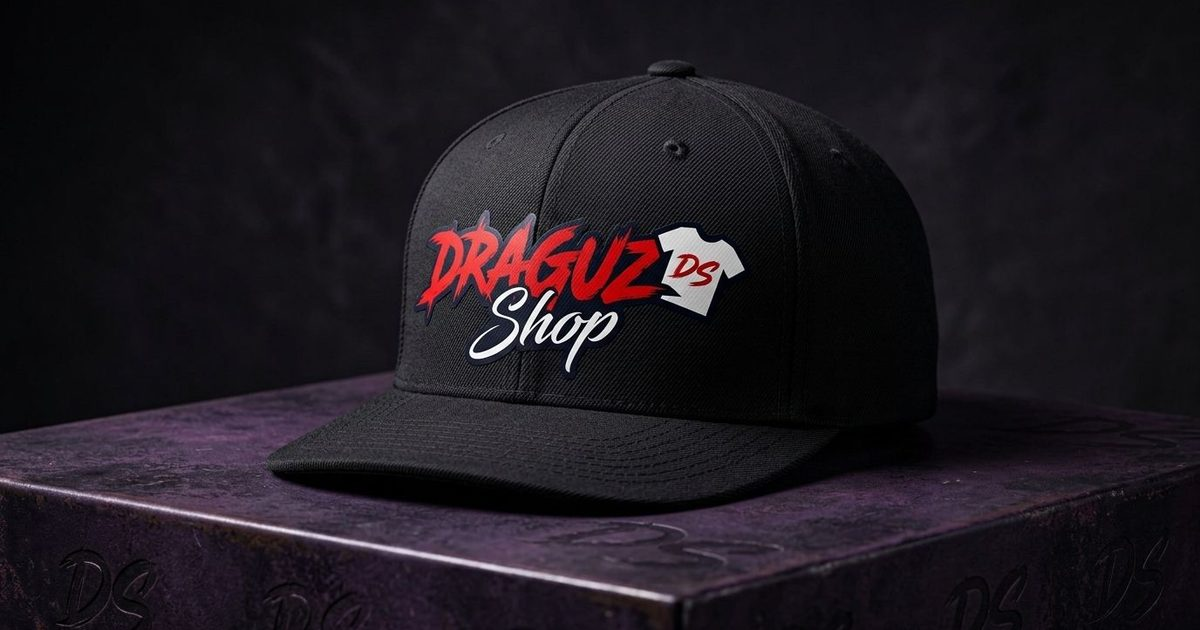
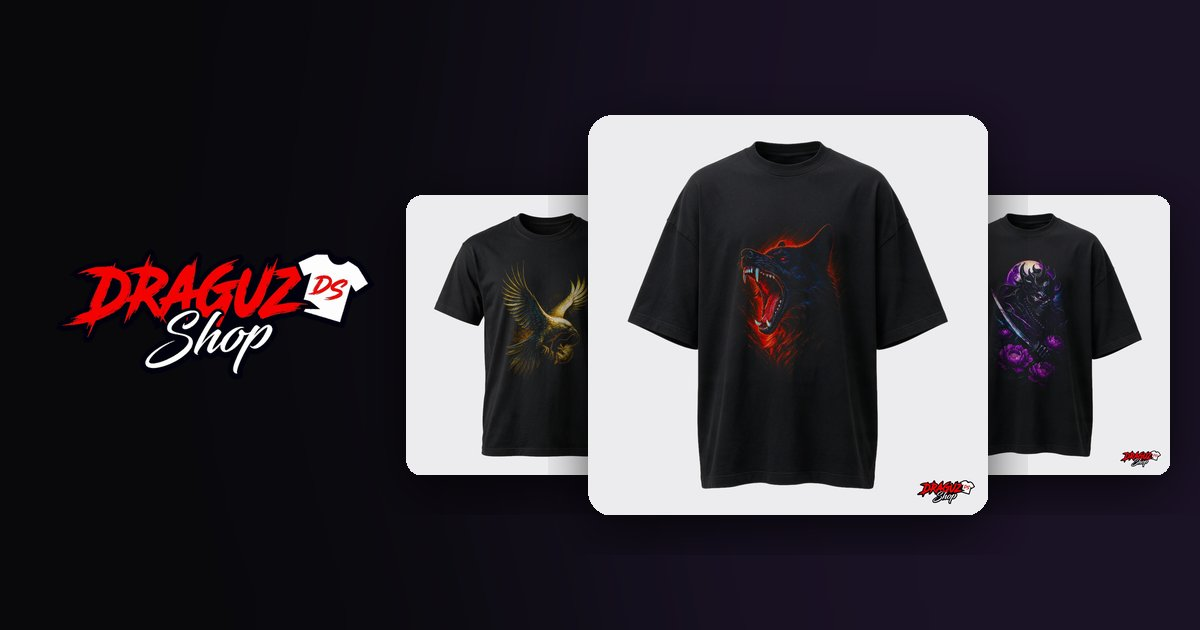
Quitar gorras: portada e imagen para compartir con playeras, textos sin gorras
Claude-Session: https://claude.ai/code/session_01Tki9iKxEtLgMNqL3XWuzQH

diff --git a/index.html b/index.html
@@ -4,7 +4,7 @@
 <meta charset="utf-8">
 <meta name="viewport" content="width=device-width,initial-scale=1">
 <title>Draguz Shop — Define your different</title>
-<meta name="description" content="Playeras, hoodies, gorras y más personalizados en DTF textil y DTF UV. 100% algodón, regular u oversize. Cotiza en línea y revisa lo que tenemos en stock.">
+<meta name="description" content="Playeras y hoodies personalizados en DTF textil y DTF UV. 100% algodón, regular u oversize. Cotiza en línea y revisa lo que tenemos en stock.">
 <meta name="theme-color" content="#09090C">
 <link rel="icon" href="assets/img/favicon.png">
 <link rel="canonical" href="https://draguzshop.com/">
@@ -13,17 +13,17 @@
 <meta property="og:site_name" content="Draguz Shop">
 <meta property="og:locale" content="es_MX">
 <meta property="og:title" content="Draguz Shop — Define your different">
-<meta property="og:description" content="Playeras, hoodies, gorras y más personalizados en DTF. Cotiza en línea y revisa lo que tenemos en stock.">
+<meta property="og:description" content="Playeras 100% algodón personalizadas en DTF textil y DTF UV, regular u oversize. Cotiza en línea y revisa lo que tenemos en stock.">
 <meta property="og:url" content="https://draguzshop.com/">
 <meta property="og:image" content="https://draguzshop.com/assets/img/og.jpg">
 <meta property="og:image:width" content="1200">
 <meta property="og:image:height" content="630">
-<meta property="og:image:alt" content="Gorra negra con el logo de Draguz Shop">
+<meta property="og:image:alt" content="Playeras negras estampadas de Draguz Shop">
 <meta name="twitter:card" content="summary_large_image">
-<script type="application/ld+json">{"@context":"https://schema.org","@type":"Store","name":"Draguz Shop","slogan":"Define your different","url":"https://draguzshop.com/","logo":"https://draguzshop.com/assets/img/logo.png","image":"https://draguzshop.com/assets/img/og.jpg","sameAs":["https://www.instagram.com/draguz_shop/","https://www.facebook.com/profile.php?id=61577445835030","https://www.tiktok.com/@draguzshop"],"description":"Playeras 100% algodón, hoodies y gorras personalizados con DTF textil y DTF UV. Menudeo y mayoreo desde 8 playeras."}</script>
+<script type="application/ld+json">{"@context":"https://schema.org","@type":"Store","name":"Draguz Shop","slogan":"Define your different","url":"https://draguzshop.com/","logo":"https://draguzshop.com/assets/img/logo.png","image":"https://draguzshop.com/assets/img/og.jpg","sameAs":["https://www.instagram.com/draguz_shop/","https://www.facebook.com/profile.php?id=61577445835030","https://www.tiktok.com/@draguzshop"],"description":"Playeras 100% algodón, y hoodies personalizados con DTF textil y DTF UV. Menudeo y mayoreo desde 8 playeras."}</script>
 <!-- Quita de la barra lo que agregan Facebook/Google al link (fbclid, gclid) -->
 <script>(function(){try{var u=new URL(location.href),k=["fbclid","gclid"],c=0;k.forEach(function(x){if(u.searchParams.has(x)){u.searchParams.delete(x);c=1}});if(c)history.replaceState(null,"",u.pathname+u.search+u.hash)}catch(e){}})();</script>
-<link rel="stylesheet" href="css/styles.css?v=20261025g">
+<link rel="stylesheet" href="css/styles.css?v=20261025h">
 </head>
 <body>
 <div class="storm" aria-hidden="true" style="position:fixed;inset:0;z-index:-1;overflow:hidden;pointer-events:none"><div class="storm-clouds"></div><div class="storm-fog"></div><div class="storm-fog f2"></div><canvas id="storm" style="position:absolute;inset:0;width:100%;height:100%"></canvas></div>
@@ -186,16 +186,16 @@
 <div id="modal-root"></div>
 <div id="toast" role="status" aria-live="polite"></div>
 
-<script src="js/storm.js?v=20261025g"></script>
-<script src="js/config.js?v=20261025g"></script>
-<script src="js/logo-data.js?v=20261025g"></script>
-<script src="js/prendas.js?v=20261025g"></script>
-<script src="js/catalogo-fotos.js?v=20261025g"></script>
-<script src="js/seed.js?v=20261025g"></script>
-<script src="js/store.js?v=20261025g"></script>
-<script src="js/pricing.js?v=20261025g"></script>
-<script src="js/loyalty.js?v=20261025g"></script>
-<script src="js/app.js?v=20261025g"></script>
+<script src="js/storm.js?v=20261025h"></script>
+<script src="js/config.js?v=20261025h"></script>
+<script src="js/logo-data.js?v=20261025h"></script>
+<script src="js/prendas.js?v=20261025h"></script>
+<script src="js/catalogo-fotos.js?v=20261025h"></script>
+<script src="js/seed.js?v=20261025h"></script>
+<script src="js/store.js?v=20261025h"></script>
+<script src="js/pricing.js?v=20261025h"></script>
+<script src="js/loyalty.js?v=20261025h"></script>
+<script src="js/app.js?v=20261025h"></script>
 <script>DZ.boot();</script>
 </body>
 </html>

diff --git a/js/app.js b/js/app.js
@@ -96,7 +96,7 @@
 
   /* ───── HERO ───── */
   const SLIDES = [
-    { img: 'assets/img/cap.jpg', k: 'Streetwear a tu medida', t: 'Define your <em>different</em>', p: 'Playeras, hoodies y gorras personalizadas con DTF textil y DTF UV.', tags: ['DTF textil', 'DTF UV', '100% algodón'], a: ['Cotizar ahora', '#/cotizador'], b: ['Ver catálogo', '#/catalogo'] },
+    { img: 'assets/img/hero-playeras.jpg', k: 'Streetwear a tu medida', t: 'Define your <em>different</em>', p: 'Playeras y hoodies personalizados con DTF textil y DTF UV.', tags: ['DTF textil', 'DTF UV', '100% algodón'], a: ['Cotizar ahora', '#/cotizador'], b: ['Ver catálogo', '#/catalogo'] },
     { img: 'assets/img/tag_v1.jpg', k: 'Regular u oversize', t: 'Tu corte, <em>tu estilo</em>', p: 'Playeras 100% algodón en corte regular u oversize. Producción en 2 a 3 días.', a: ['Ver catálogo', '#/catalogo'] },
     { img: 'assets/img/tag_h.jpg', k: 'Mayoreo', t: 'Más piezas, <em>mejor precio</em>', p: 'Precio de mayoreo desde 8 playeras. Arma tu cotización y míralo al instante.', a: ['Cotizar mayoreo', '#/cotizador'] }
   ];
@@ -206,7 +206,7 @@
     const first = k => (activeCat().find(x => x.category === k) || activeCat()[0] || {}).id || '';
     const tiles = [
       { img: 'assets/img/tag_v1.jpg', k: 'Playeras y polos', t: 'Tu marca en cada prenda', cat: 'Playeras' },
-      { img: 'assets/img/cap.jpg', k: 'Gorras y accesorios', t: 'Detalles que se notan', cat: 'Gorras' },
+      { img: 'assets/img/hero-playeras.jpg', k: 'Regular u oversize', t: 'Tu diseño, tu corte', cat: 'Playeras' },
       { img: 'assets/img/neck.jpg', k: 'Hoodies', t: 'Tu diseño, en tu prenda', cat: 'Hoodies' }
     ];
     $('#promos').innerHTML = tiles.map(t => `<a class="promo" href="#/cotizador" data-pid="${first(t.cat)}" style="background-image:url(${t.img})"><div><span class="kicker">${t.k}</span><h3>${t.t}</h3><span class="btn sm ghost">Cotizar</span></div></a>`).join('')
